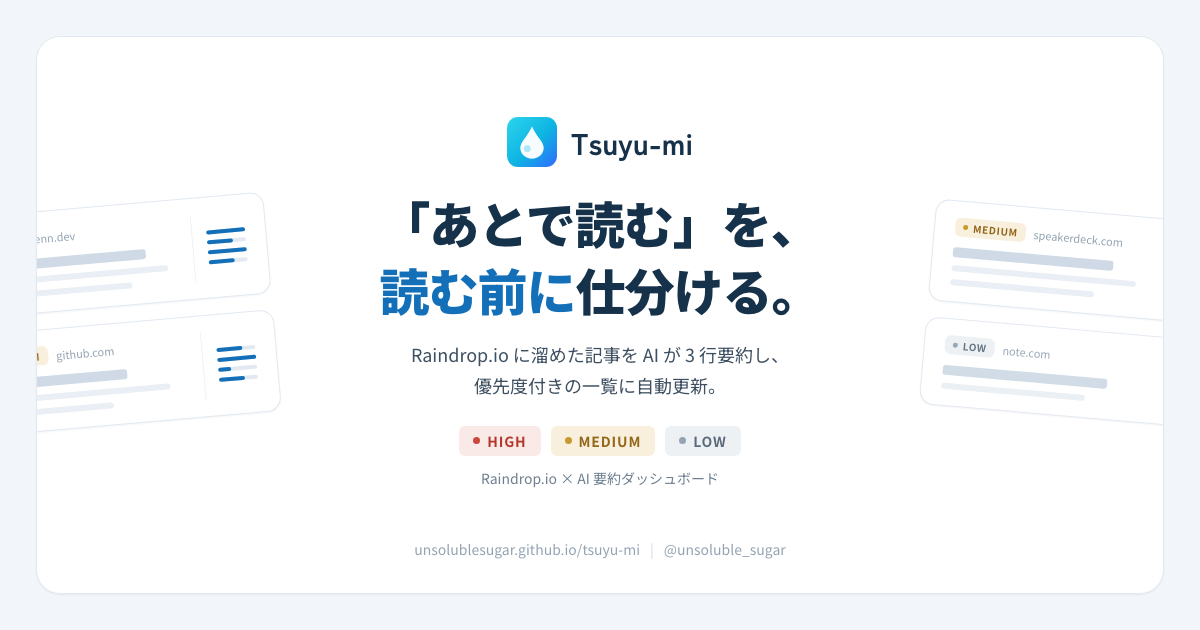
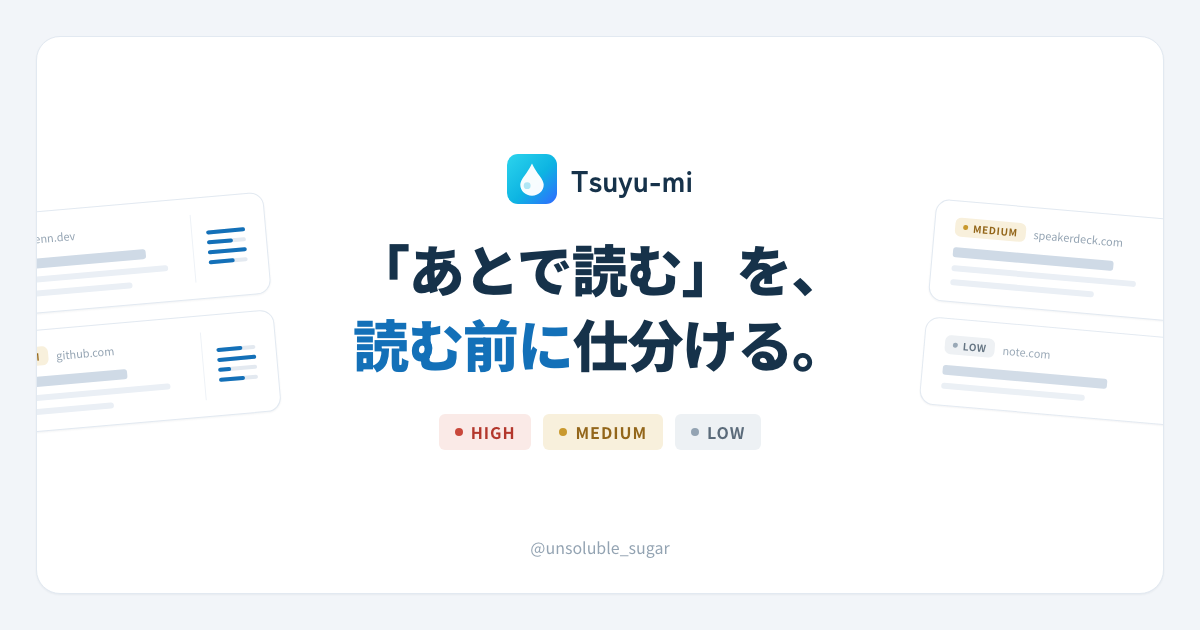
🎨 OGP 画像から細かい説明文を削除しフッターを作者名のみに (#83)
縮小表示では 14〜18px の説明テキストが読まれないため、
ディスクリプションとサブコピーを削除。空いた余白に合わせて
見出しを 56px、優先度チップを 16px に拡大した。
フッターは URL を外して作者名のみに簡素化。

diff --git a/og.html b/og.html
@@ -61,40 +61,29 @@
     font-weight: 700;
     line-height: 1.2;
   }
-  .brand-sub {
-    font-size: 14px;
-    color: #6d7f90;
-    margin-top: 12px;
-  }
 
   /* 見出しは OGP の縮小表示でも潰れないよう Noto Sans JP 900 を使う
      （Zen Kaku Gothic New 700 は線が細く視認性が落ちる） */
   .center h1 {
-    margin-top: 22px;
-    font-size: 50px;
+    margin-top: 26px;
+    font-size: 56px;
     font-weight: 900;
     line-height: 1.34;
     letter-spacing: -0.02em;
   }
   .center h1 .accent { color: #1370b8; }
-  .center p {
-    margin-top: 16px;
-    font-size: 18px;
-    line-height: 1.75;
-    color: #3d4f60;
-  }
-  .chips { display: flex; gap: 10px; margin-top: 24px; justify-content: center; }
+  .chips { display: flex; gap: 12px; margin-top: 34px; justify-content: center; }
   .chip {
     display: inline-flex;
     align-items: center;
-    gap: 7px;
-    padding: 5px 14px;
+    gap: 8px;
+    padding: 6px 16px;
     border-radius: 6px;
-    font-size: 14px;
+    font-size: 16px;
     font-weight: 700;
     letter-spacing: 0.06em;
   }
-  .chip .dot { width: 7px; height: 7px; border-radius: 50%; display: inline-block; }
+  .chip .dot { width: 8px; height: 8px; border-radius: 50%; display: inline-block; }
   .chip.high { background: #faeae7; color: #b3372c; }
   .chip.high .dot { background: #c9483b; }
   .chip.medium { background: #f8f0dc; color: #93661a; }
@@ -164,17 +153,16 @@
   }
   .mini.low .bar span { background: #8fb4d4; }
 
-  /* ---- フッター（中央 1 行。セーフゾーン内に収める） ---- */
+  /* ---- フッター（作者名のみ。セーフゾーン内に収める） ---- */
   .foot {
     position: absolute;
     left: 0;
     right: 0;
     bottom: 34px;
     text-align: center;
-    font-size: 14px;
+    font-size: 16px;
     color: #93a3b2;
   }
-  .foot .sep { margin: 0 10px; color: #cfdae6; }
 </style>
 </head>
 <body>
@@ -270,18 +258,14 @@
       <div class="brand-title">Tsuyu-mi</div>
     </div>
     <h1>「あとで読む」を、<br><span class="accent">読む前に</span>仕分ける。</h1>
-    <p>Raindrop.io に溜めた記事を AI が 3 行要約し、<br>優先度付きの一覧に自動更新。</p>
     <div class="chips">
       <span class="chip high"><span class="dot"></span>HIGH</span>
       <span class="chip medium"><span class="dot"></span>MEDIUM</span>
       <span class="chip low"><span class="dot"></span>LOW</span>
     </div>
-    <div class="brand-sub">Raindrop.io &times; AI 要約ダッシュボード</div>
   </div>
 
-  <div class="foot">
-    <span>unsolublesugar.github.io/tsuyu-mi</span><span class="sep">|</span><span>@unsoluble_sugar</span>
-  </div>
+  <div class="foot">@unsoluble_sugar</div>
 
 </div>
 </body>
